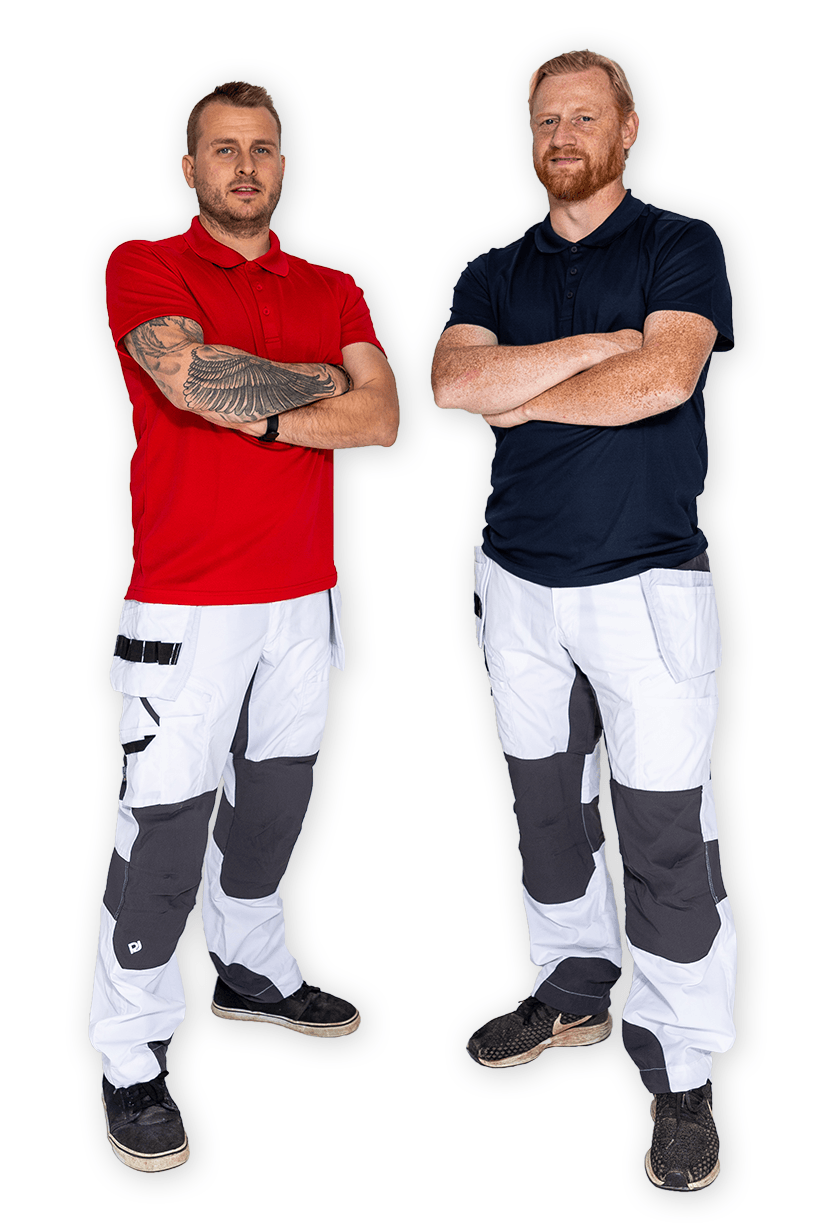
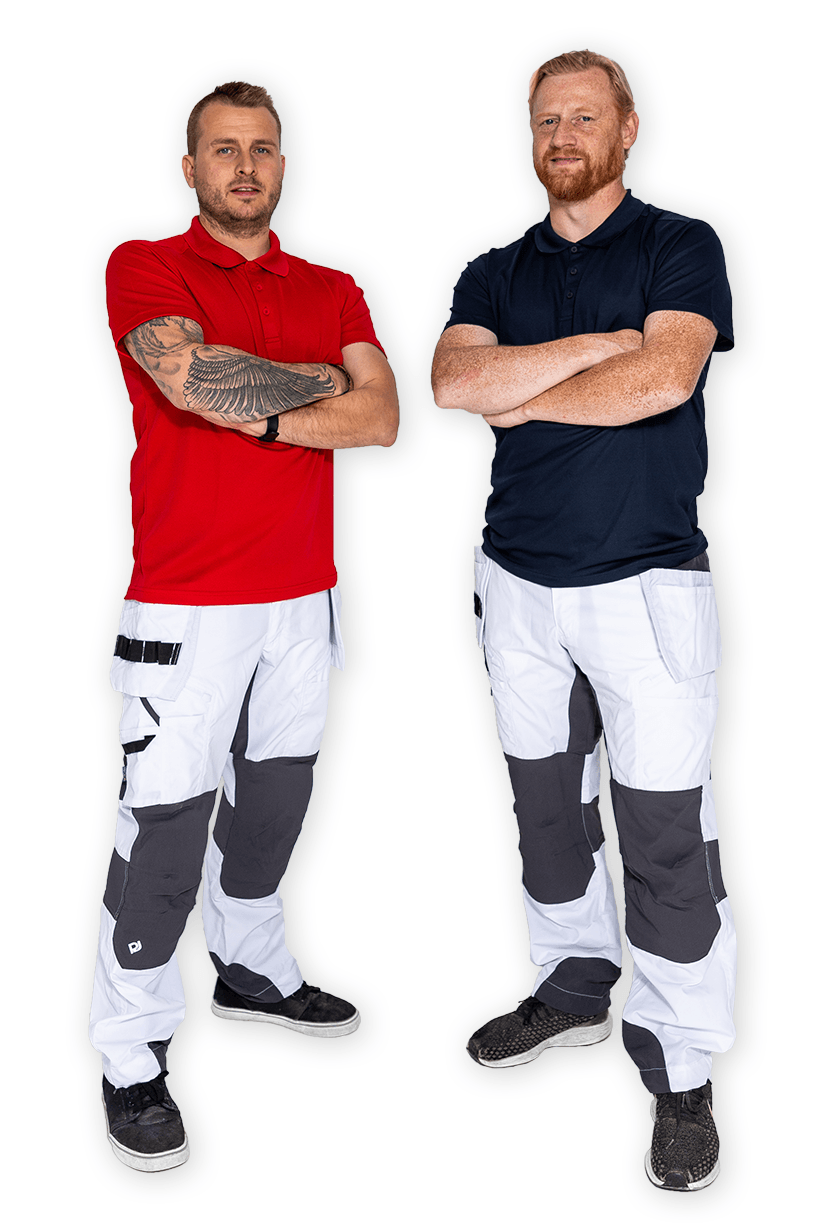
Updated the standing picture, cleaned the dirty shoes
Updated the picture of Jón and Marteinn standing next to each other with the shoes cleaned and the logo removed from Martein's shoe. In a call with Jón he mentioned that people often mentioned the dirty shoes. I thought they were off putting as well so I cleaned them on Jón's request. One of the weirder things I've done.

diff --git a/public/index.html b/public/index.html
@@ -79,7 +79,7 @@
   <div class="container">
     <div class="row">
       <div class="col-12 text-center">
-        <img class="img-fluid" src="img/jonogmarteinn-standing.png" alt="Jón og Marteinn standandi hlið við hlið">
+        <img class="img-fluid" src="img/jonogmarteinn-standing2.png" alt="Jón og Marteinn standandi hlið við hlið">
       </div>
     </div>
   </div>
